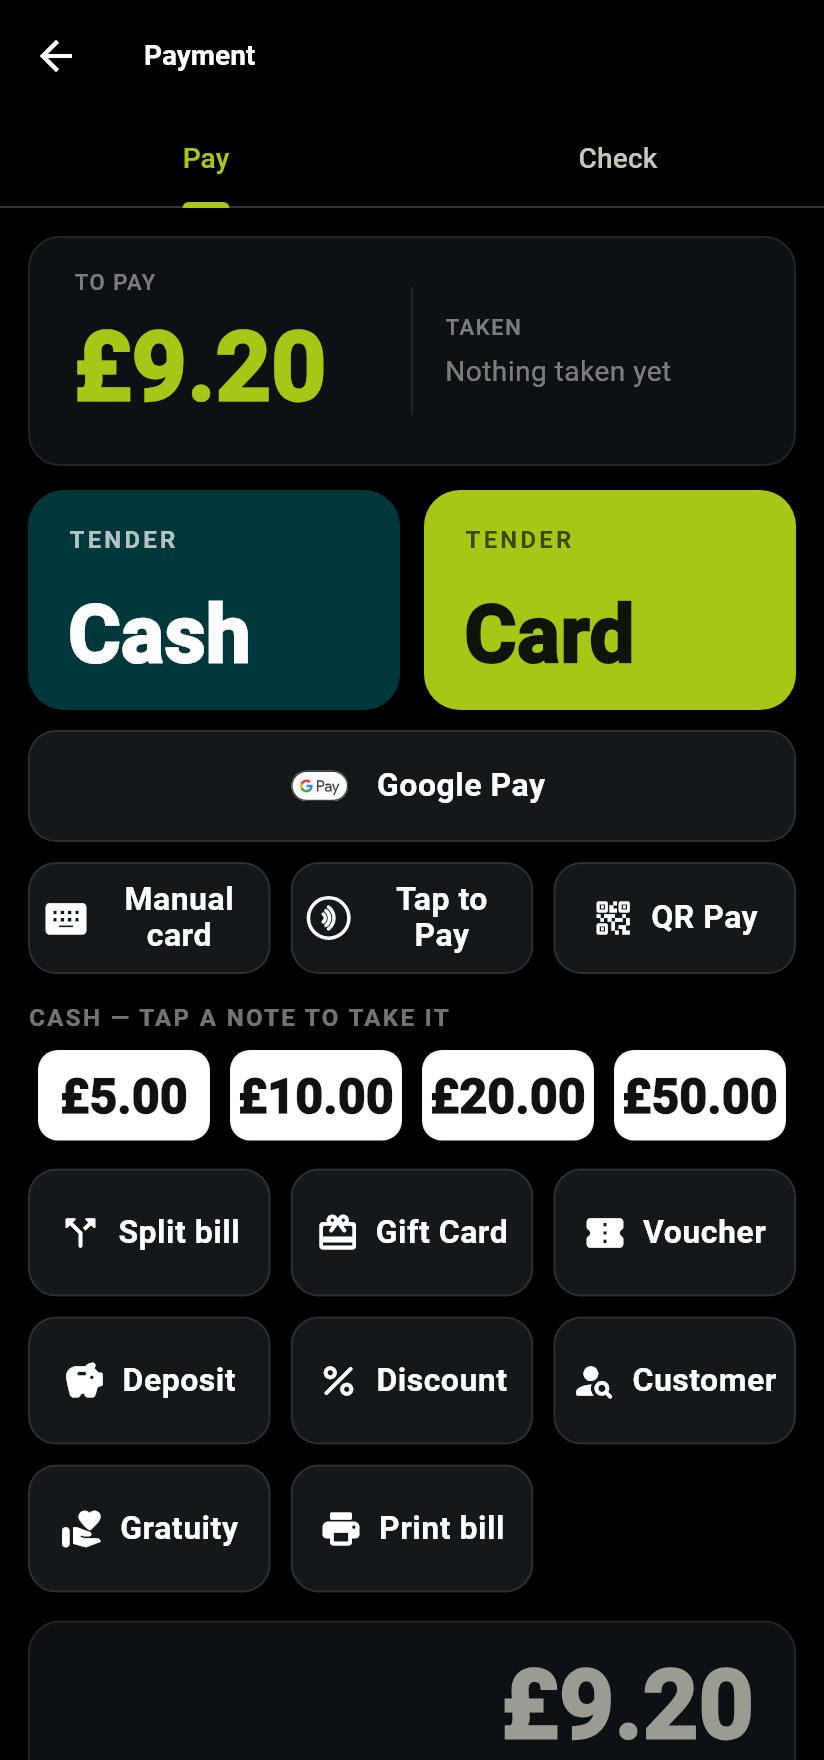
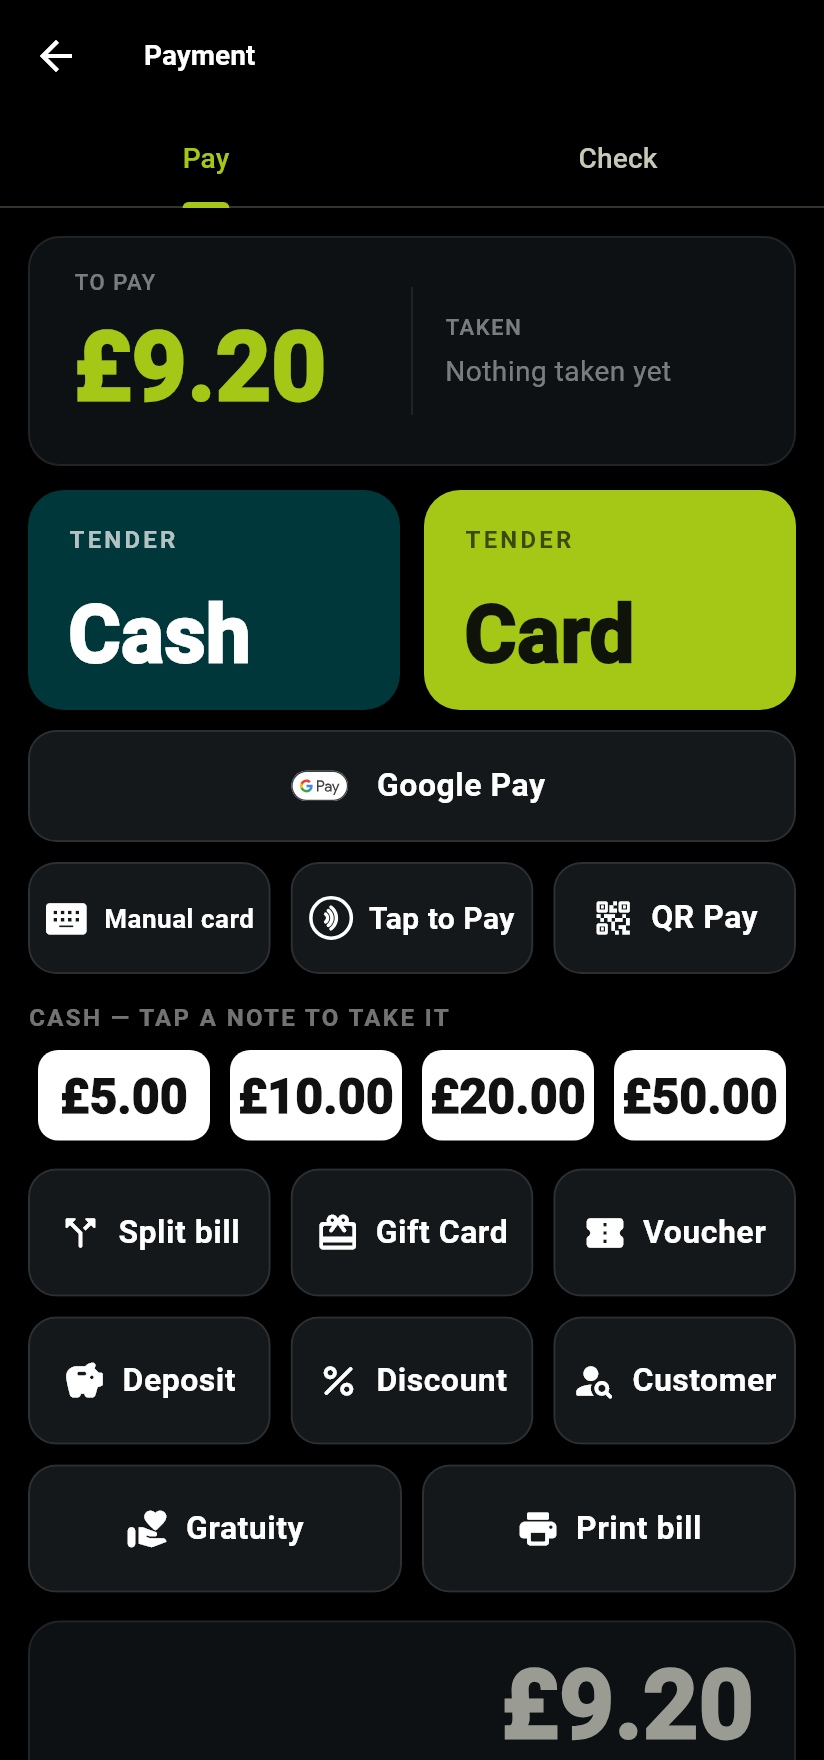
Go's pay board: keys on one line, and a short last row fills the width

diff --git a/vesopa_go/lib/counter/ui/till_pay_board.dart b/vesopa_go/lib/counter/ui/till_pay_board.dart
@@ -236,8 +236,13 @@ class _TillPayBoardState extends State<TillPayBoard> {
       // three to a row on a phone.
       final cols = wide ? (grid.length <= 5 ? grid.length : (grid.length == 9 ? 5 : 4)) : 3;
       final w = (box.maxWidth - 10 * (cols - 1)) / cols;
+      // A short last row fills the width, so the board has no empty slot.
+      final left = grid.length % cols;
+      final lastRow = left == 0 ? grid.length : grid.length - left;
+      final stretched = left == 0 ? w : (box.maxWidth - 10 * (left - 1)) / left;
       return Wrap(spacing: 10, runSpacing: 10, children: [
-        for (final (label, onTap) in grid) SizedBox(width: w, height: 64, child: _ToolKey(label: label, icon: _toolIcons[label], onTap: onTap)),
+        for (final (i, (label, onTap)) in grid.indexed)
+          SizedBox(width: i >= lastRow ? stretched : w, height: 64, child: _ToolKey(label: label, icon: _toolIcons[label], onTap: onTap)),
       ]);
     });
 
@@ -368,7 +373,7 @@ class _ToolKey extends StatelessWidget {
                 padding: const EdgeInsets.symmetric(horizontal: 8),
                 child: Row(mainAxisSize: MainAxisSize.min, children: [
                   if (mark != null) ...[mark!, const SizedBox(width: 8)] else if (icon != null) ...[Icon(icon, size: 22), const SizedBox(width: 8)],
-                  Flexible(child: FitText(label, maxLines: 2, minSize: 12, textAlign: TextAlign.center, style: const TextStyle(fontSize: 16, height: 1.1, fontWeight: FontWeight.w600))),
+                  Flexible(child: FitText(label, maxLines: 1, minSize: 10, textAlign: TextAlign.center, style: const TextStyle(fontSize: 16, height: 1.1, fontWeight: FontWeight.w600))),
                 ]),
               ),
             ),
